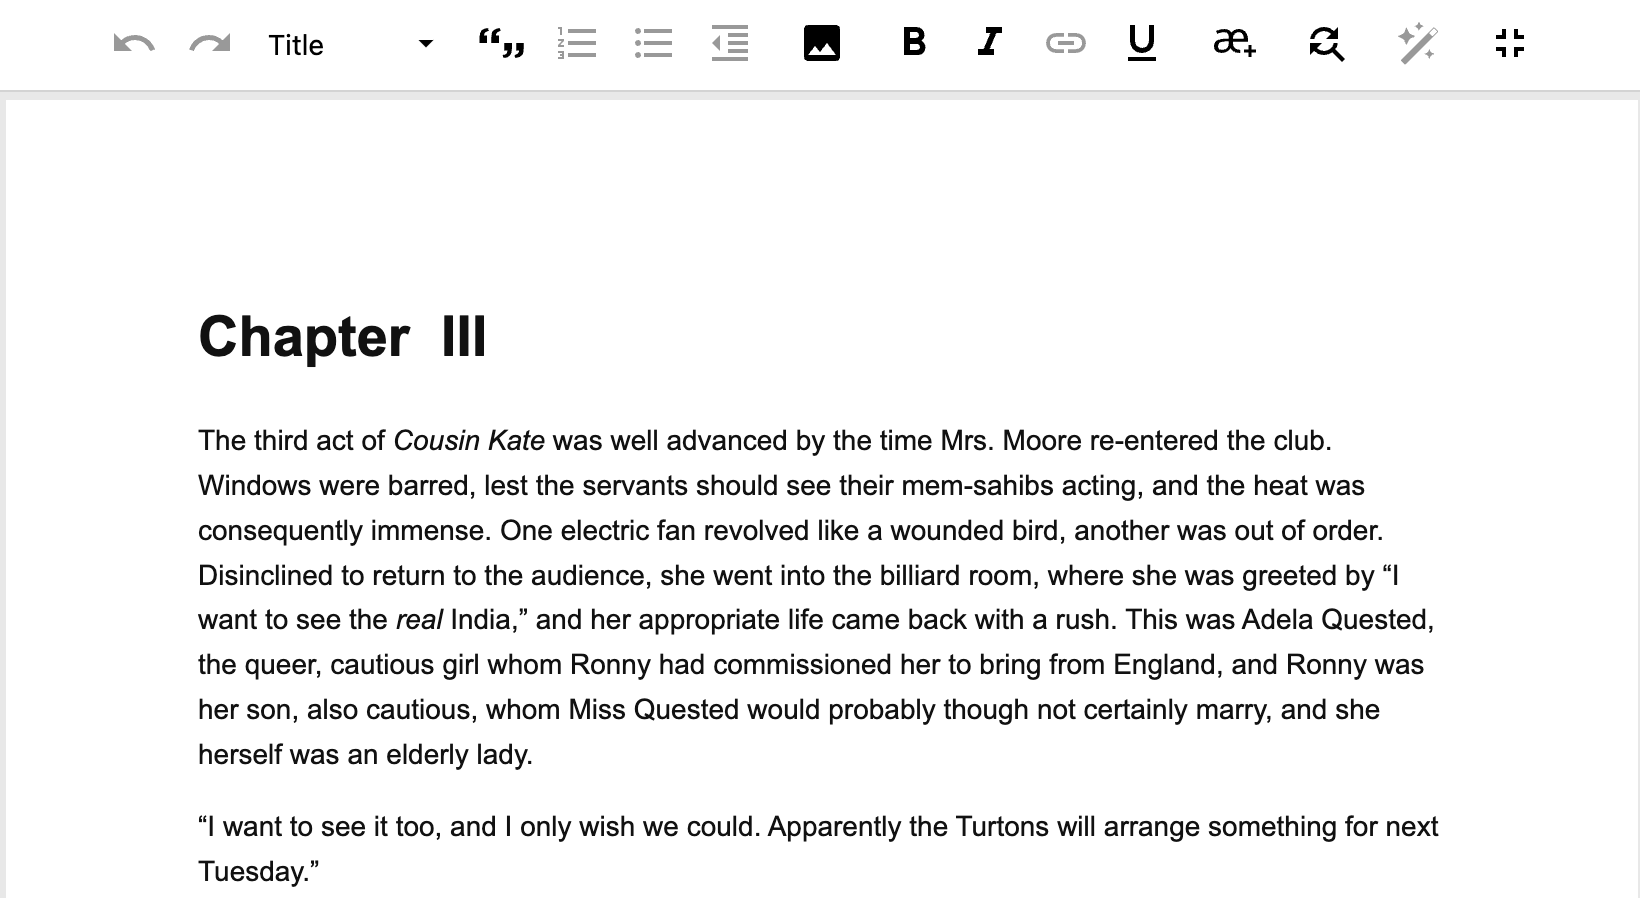
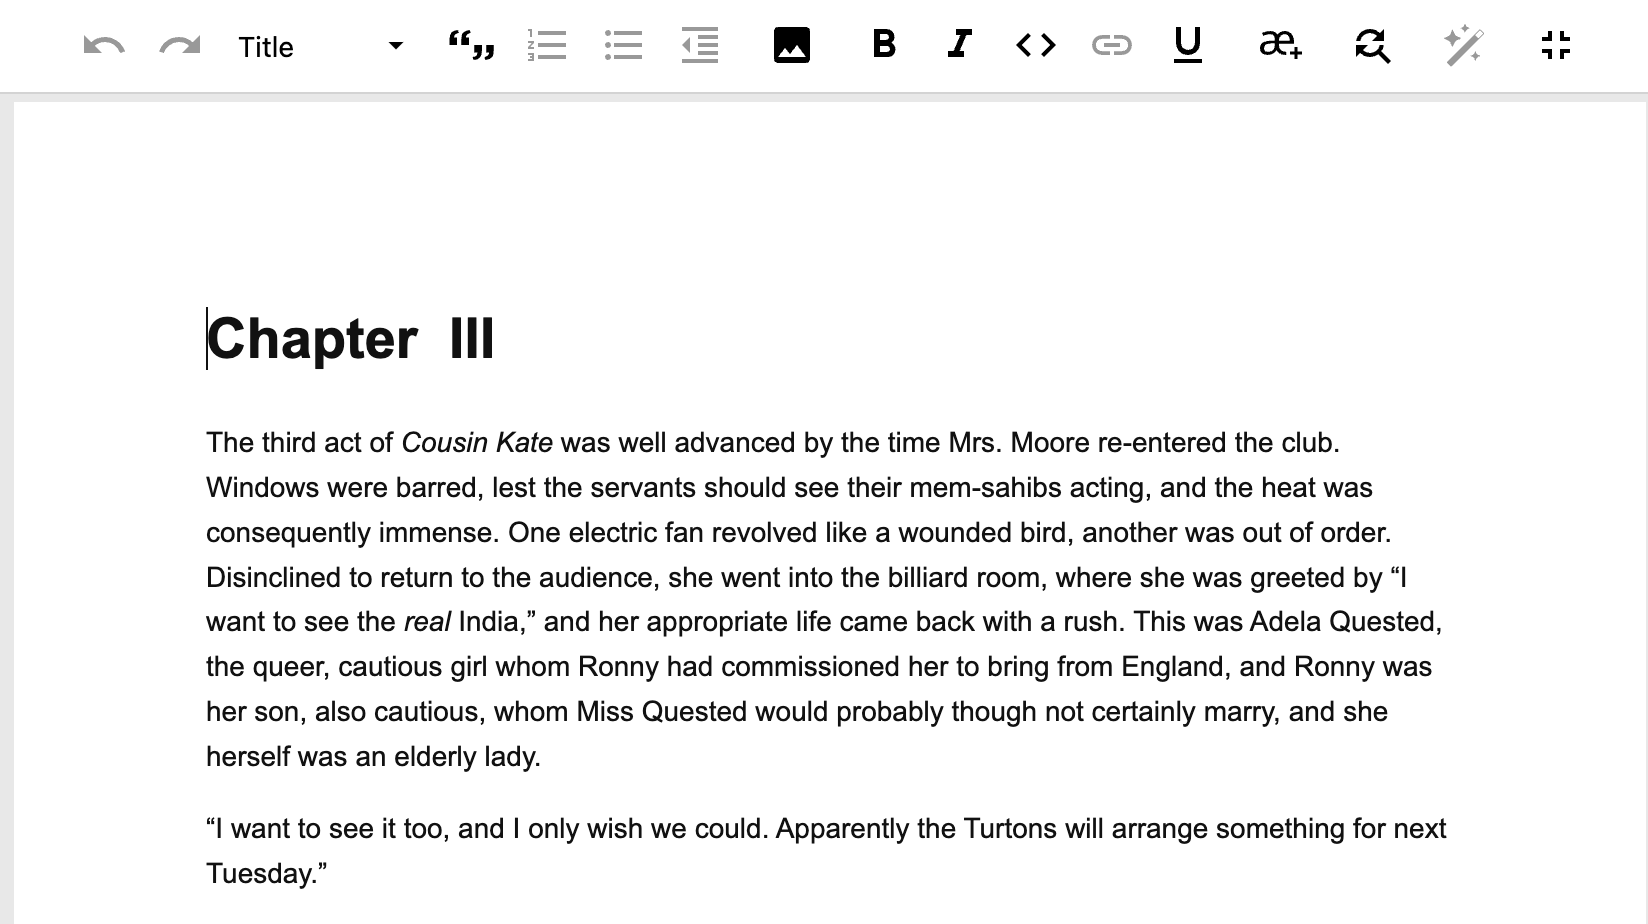
docs: add inline code

diff --git a/docs/docs/userGuide/03-The Producer/03-editing-tools.md b/docs/docs/userGuide/03-The Producer/03-editing-tools.md
@@ -15,7 +15,6 @@ In the toolbar the following tools are available (from left to right):
 - **Undo (left arrow):** used to undo a change
 - **Redo (right arrow):** used to redo a change that was undone
 - **Text styles:** including heading levels (title, heading 2, heading 3) and paragraph text.
-
 - **Blockquote:** indent text to show quoted text.
 - **Ordered (numbered) list:** two levels of lists can be created. _Tip:_ to create a nested list, select the list item you want to nest, then click the ordered list button again.
 - **Unordered (bulleted) list:** two levels of lists can be created. _Tip:_ to create a nested list, select the list item you want to nest, then click the ordered list button again.
@@ -23,6 +22,7 @@ In the toolbar the following tools are available (from left to right):
 - **Upload image:** to upload an image, place your cursor in the position you want the image to appear, and click the upload image icon.
 - **Bold:** to apply bold to text
 - **Italic:** to apply emphasis to text
+- **Inline code** to apply style to lines of code so that it's differentiated from paragraph text. 
 - **Hyperlink:** enter your link in the input field and click Apply. _Tip:_ links should be valid and include ‘https://’ to produce valid epubs.
 - **Underline:** to apply underline to text
 - **Special characters:** to insert a special character, place your cursor in the position you want it inserted, then click the special characters icon. Browse or search in the menu to find the character, then select it. The selected character will be inserted by your cursor.
